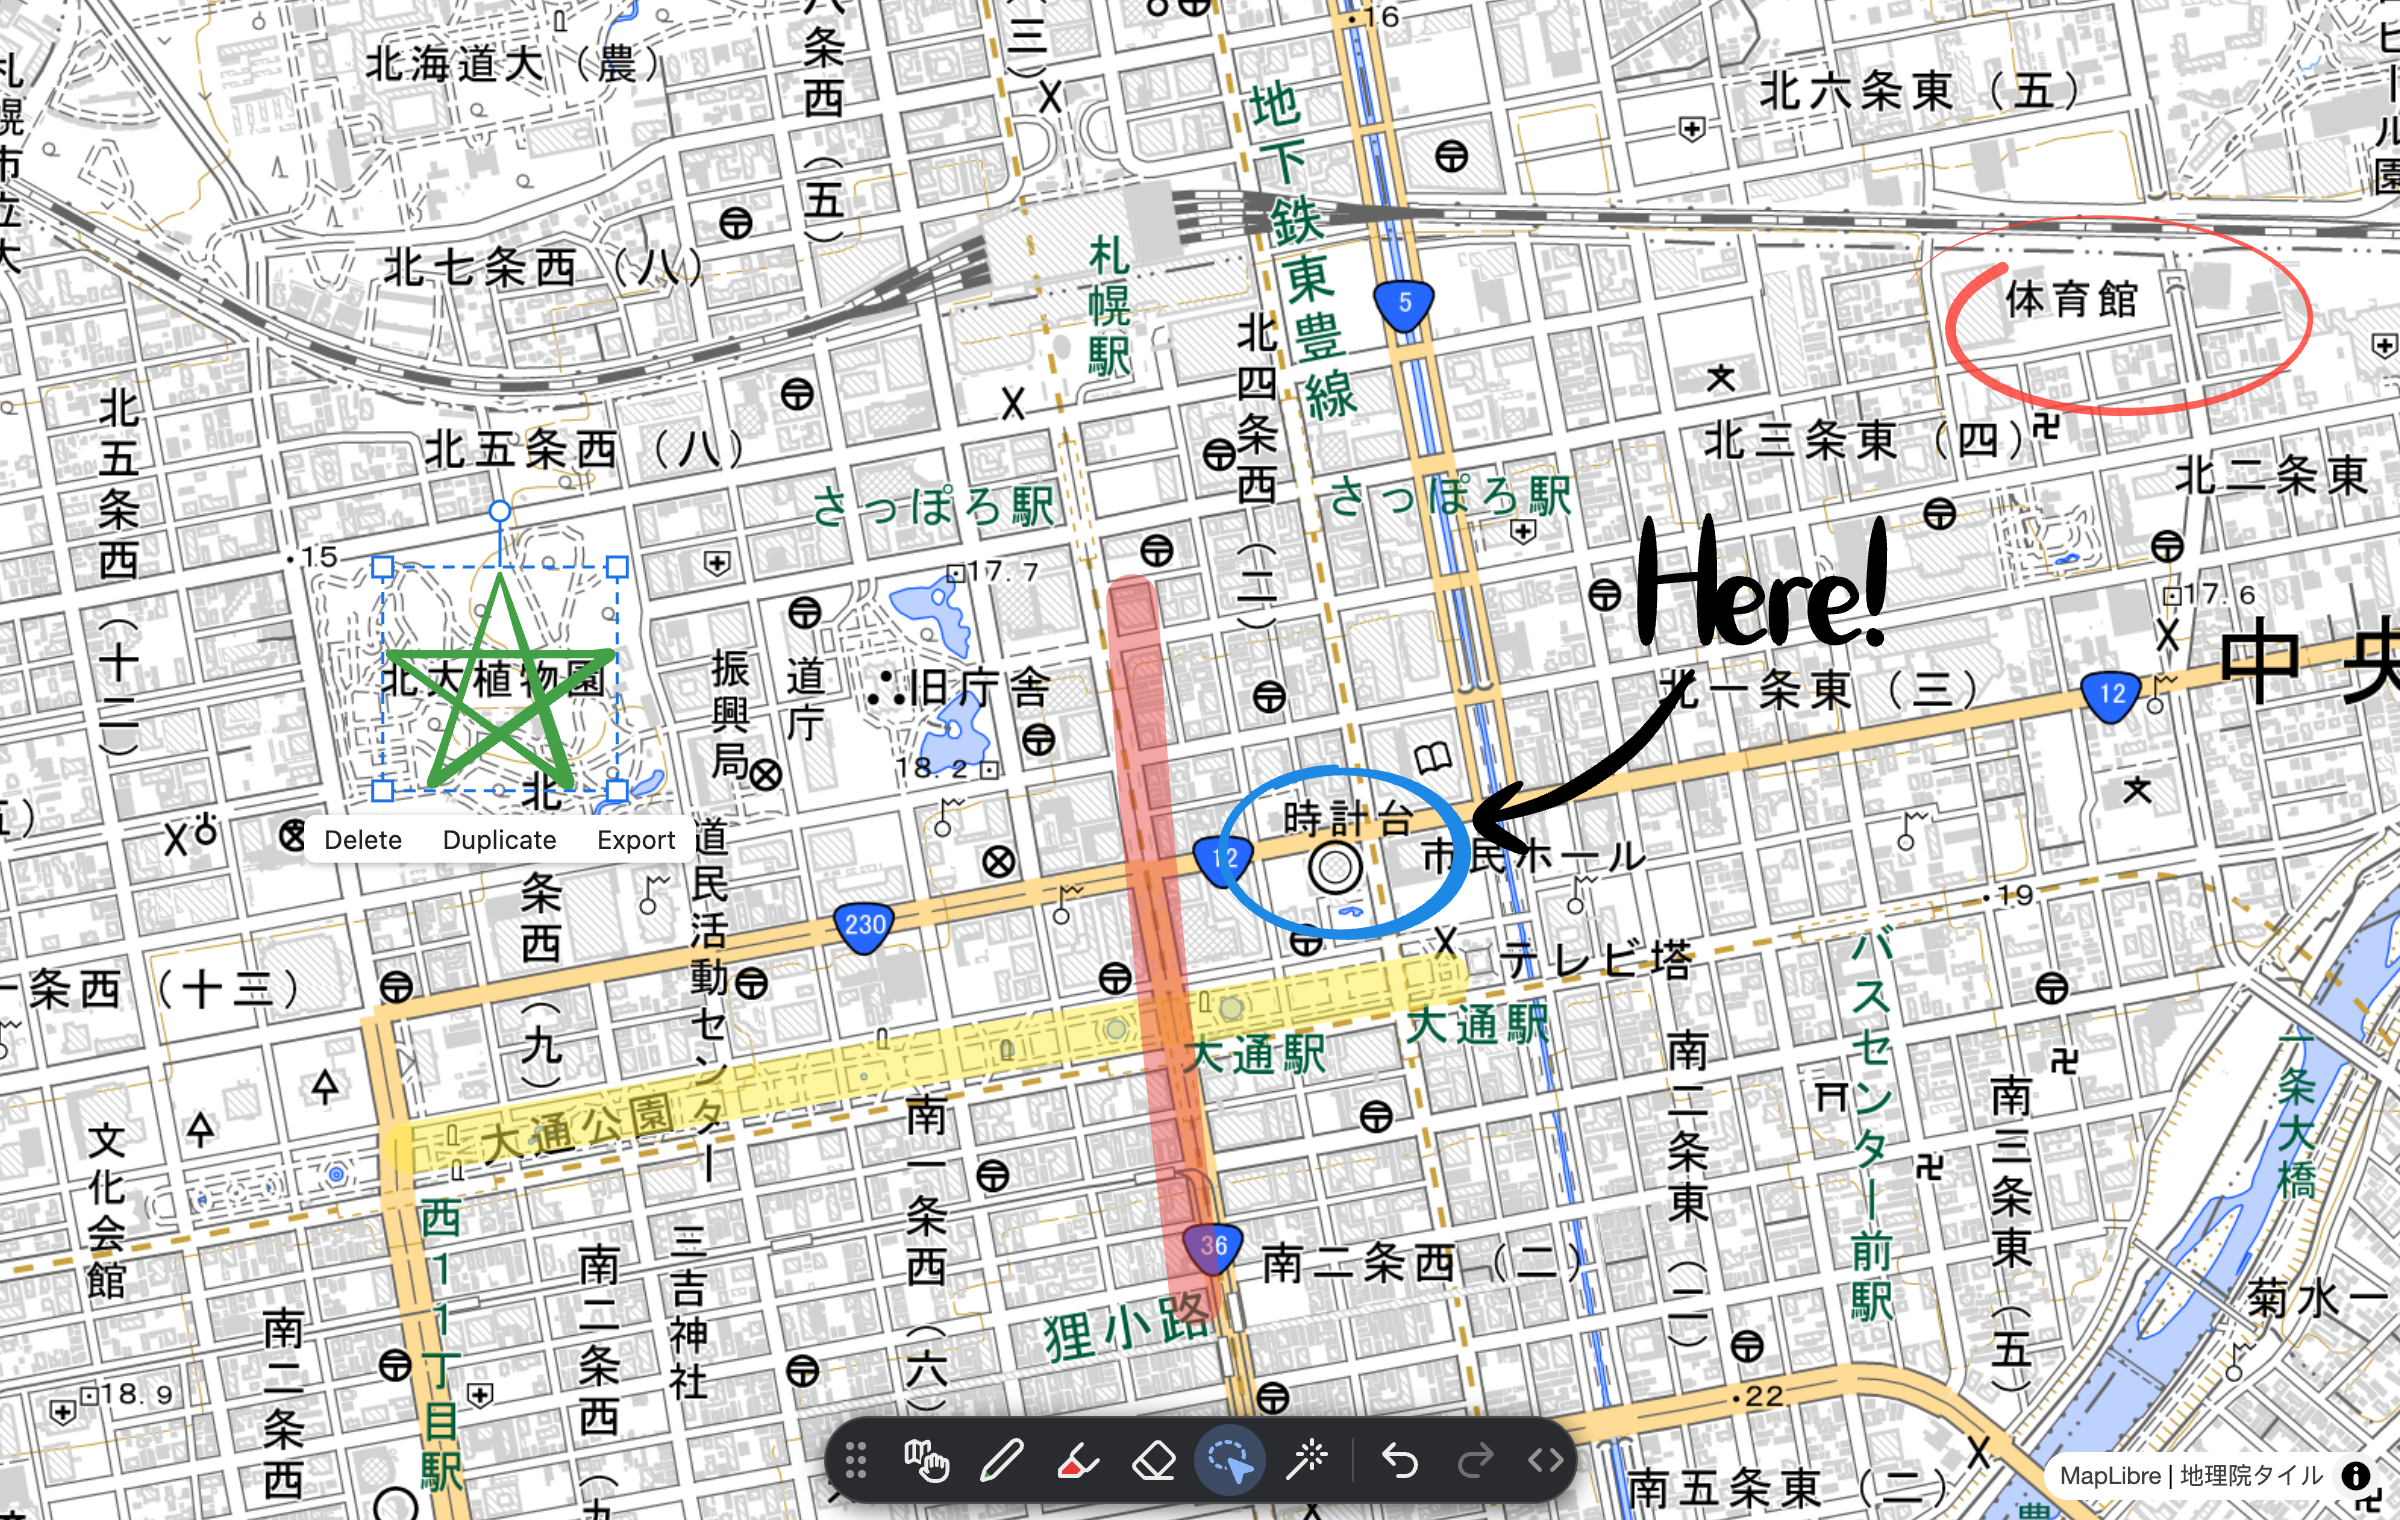
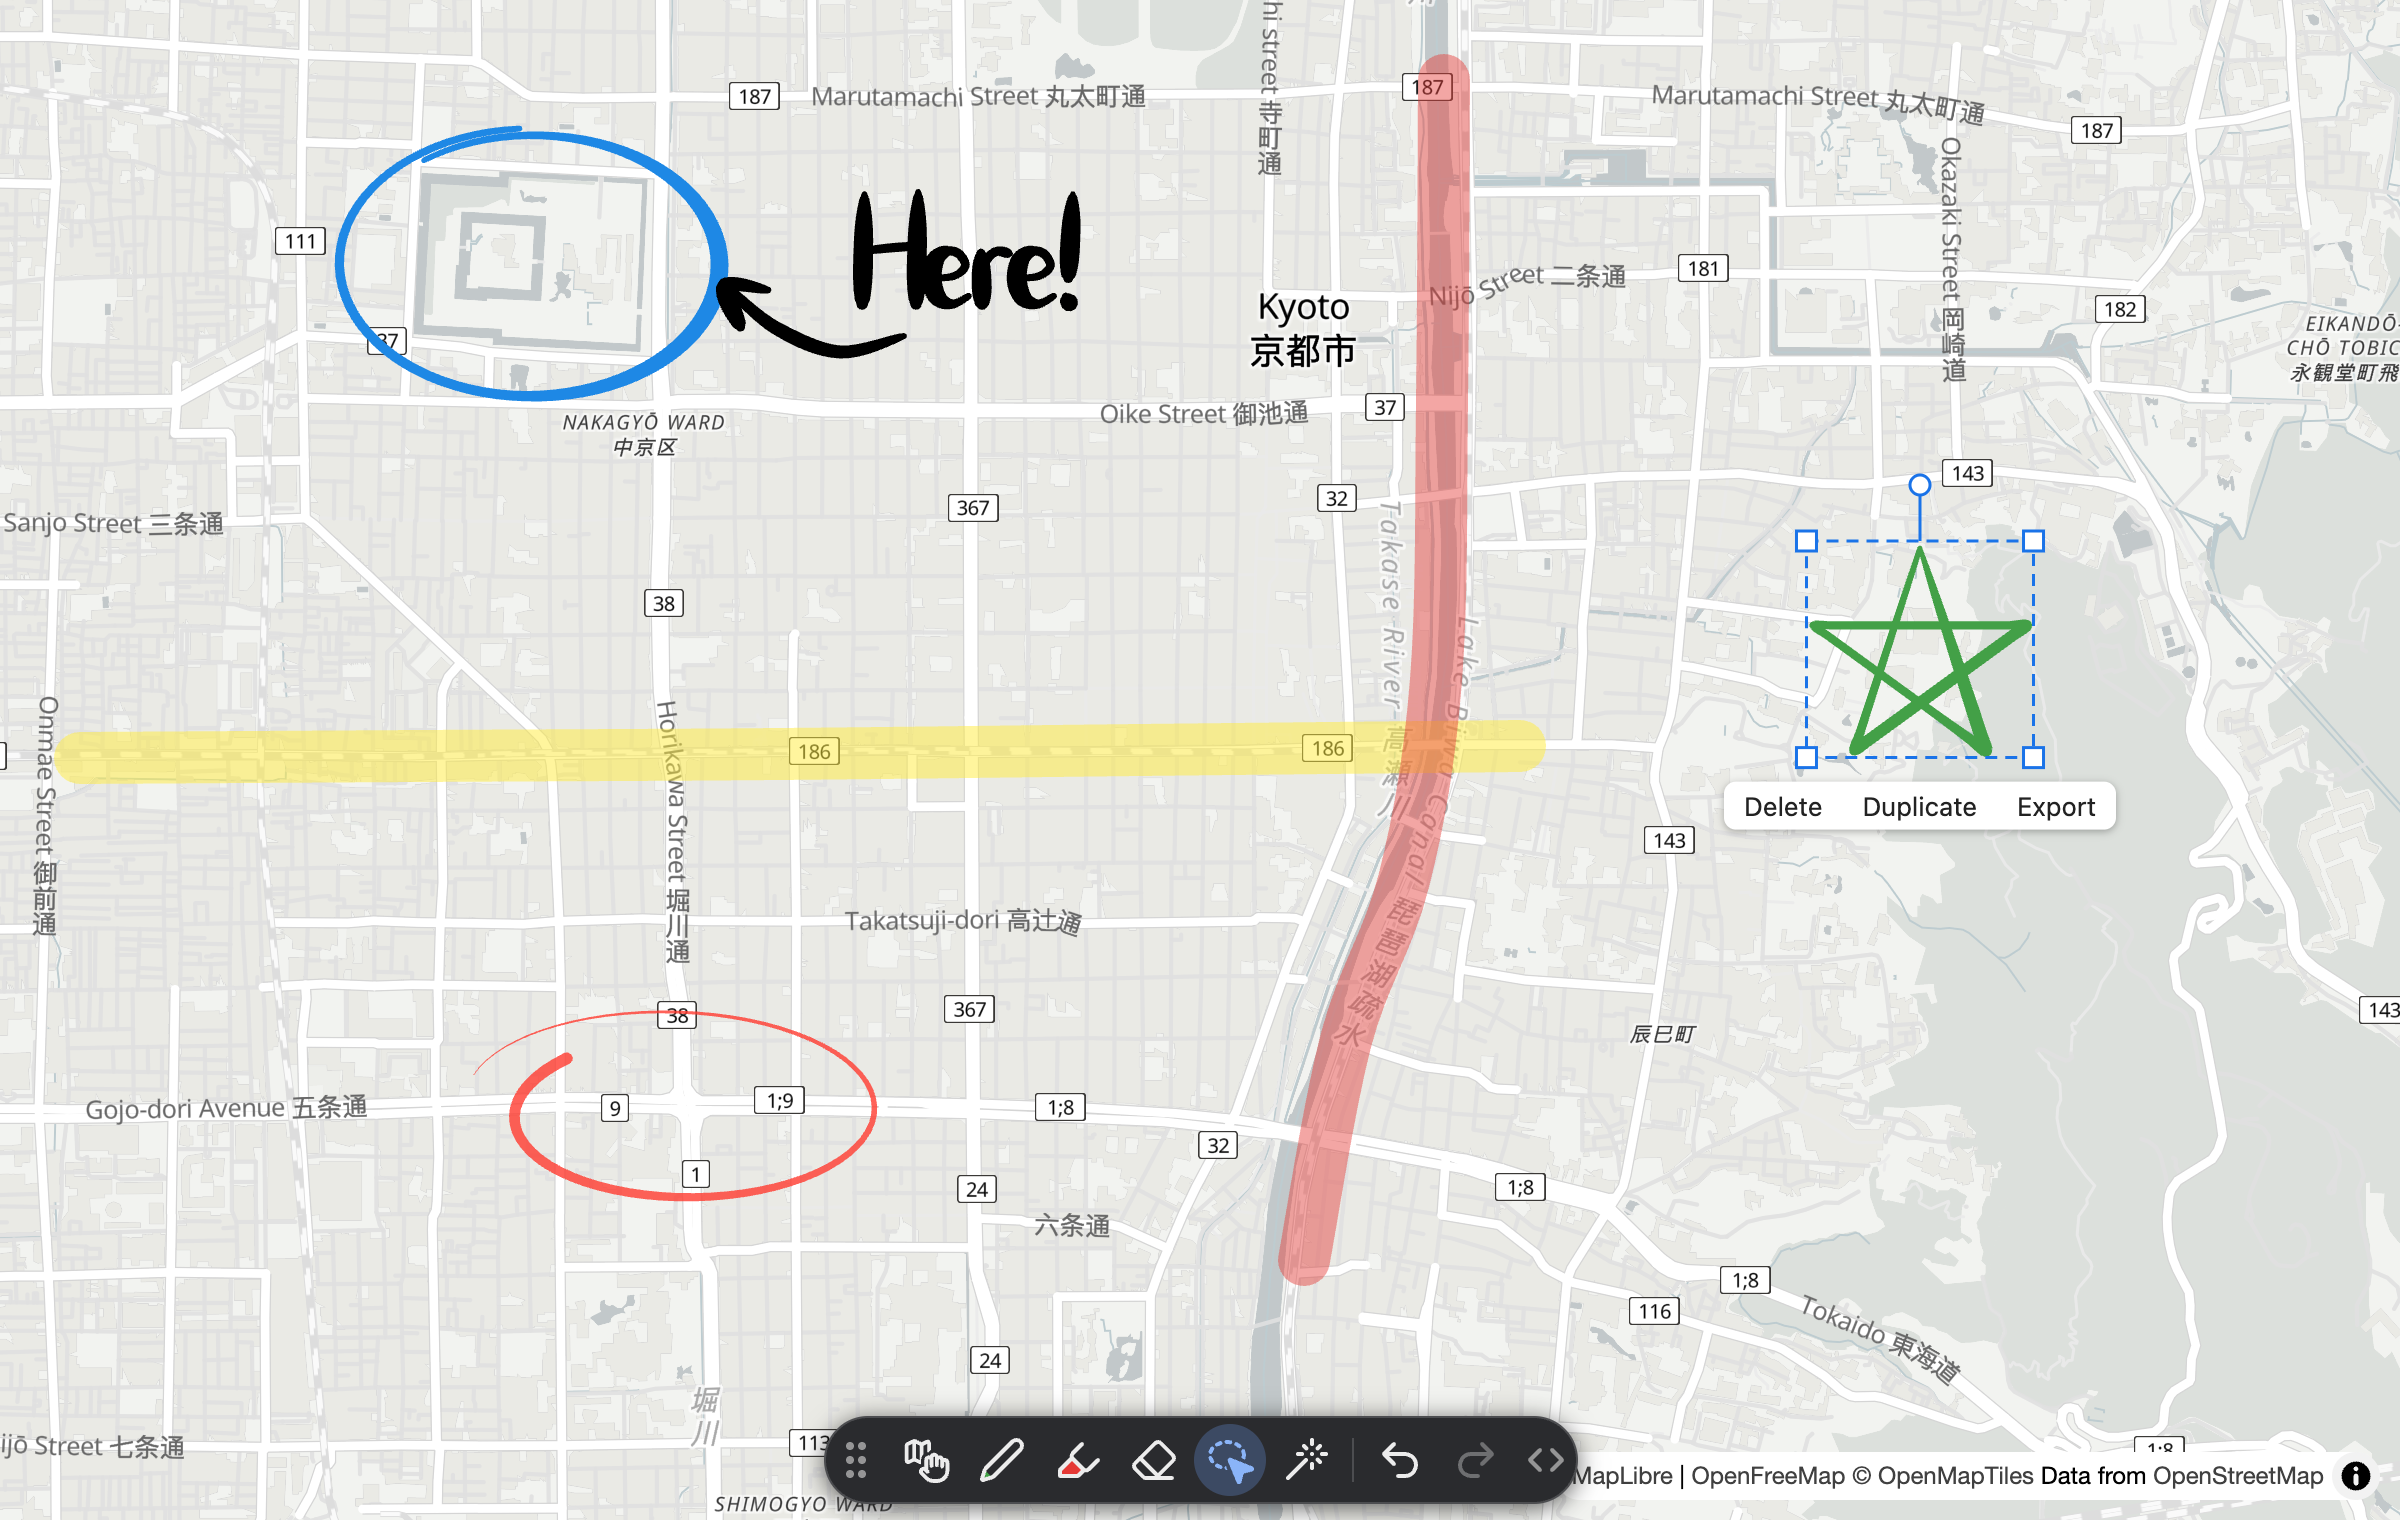
Use OpenFreeMap in dev and retake the README screenshot in Kyoto

diff --git a/dev/main.ts b/dev/main.ts
@@ -4,7 +4,7 @@
 // times; window.__handwriting is what the browser checks (tests/tools/e2e-dev.mjs) look at
 import 'maplibre-gl/dist/maplibre-gl.css'
 import '../src/ui/toolbar.css'
-import { Map as MapLibreMap, NavigationControl, setWorkerUrl } from 'maplibre-gl'
+import { Map as MapLibreMap, NavigationControl, setWorkerUrl, type StyleSpecification } from 'maplibre-gl'
 // MapLibre finds its worker next to its own module, which Vite's pre-bundling moves: give it the worker's URL
 import mapLibreWorkerUrl from 'maplibre-gl/dist/maplibre-gl-worker.mjs?worker&url'
 import { debugPredictionCounts, debugSceneOf, setDebugPrediction } from '../src/debug'
@@ -19,34 +19,39 @@ import {
 import { mountPanel } from './panel'
 
 setWorkerUrl(mapLibreWorkerUrl)
+// A plain background: the style under ?blank, for checks that compare pixels against it, and the one the page falls
+// back to when the map's style cannot be loaded
+const backgroundStyle: StyleSpecification = {
+  version: 8,
+  sources: {},
+  layers: [{ id: 'background', type: 'background', paint: { 'background-color': '#f2f2f2' } }],
+}
+const blank = new URLSearchParams(location.search).has('blank')
 const map = new MapLibreMap({
   container: 'map',
-  // GSI pale raster tiles: no API key needed, attribution required. Tiles exist from zoom 2 to 18
-  style: {
-    version: 8,
-    sources: {
-      gsi: {
-        type: 'raster',
-        tiles: ['https://cyberjapandata.gsi.go.jp/xyz/pale/{z}/{x}/{y}.png'],
-        tileSize: 256,
-        minzoom: 2,
-        maxzoom: 18,
-        attribution: '<a href="https://maps.gsi.go.jp/development/ichiran.html" target="_blank">地理院タイル</a>',
-      },
-    },
-    layers: [
-      { id: 'background', type: 'background', paint: { 'background-color': '#f2f2f2' } },
-      // ?blank leaves the tiles out, for checks that compare pixels against a plain background
-      ...(new URLSearchParams(location.search).has('blank')
-        ? []
-        : [{ id: 'gsi', type: 'raster' as const, source: 'gsi' }]),
-    ],
-  },
+  // OpenFreeMap's Positron (decision 0017): OpenStreetMap vector tiles, no API key needed. Its sources carry their
+  // attribution, which MapLibre shows; the tiles go up to zoom 14
+  style: blank ? backgroundStyle : 'https://tiles.openfreemap.org/styles/positron',
   center: [141.3545, 43.0618],
   zoom: 12,
   minZoom: 2,
   canvasContextAttributes: { antialias: true, desynchronized: true },
 })
+if (!blank) {
+  // The style not loaded, there is no style.load, and the handle adds no layer: an error before style.load puts the
+  // plain background in its place, so the page still draws. Failures after style.load (tiles) only leave the map short
+  const onError = (event: { error?: unknown }): void => {
+    stopListening()
+    console.warn('The map style could not be loaded; drawing on a plain background', event.error)
+    map.setStyle(backgroundStyle, { diff: false })
+  }
+  const stopListening = (): void => {
+    map.off('error', onError)
+    map.off('style.load', stopListening)
+  }
+  map.on('error', onError)
+  map.on('style.load', stopListening)
+}
 map.addControl(new NavigationControl())
 
 const store = new StrokeStore()

diff --git a/README.md b/README.md
@@ -5,9 +5,9 @@ A simple freehand drawing plugin for [MapLibre GL JS](https://github.com/maplibr
 Strokes are kept in map coordinates, tessellated by [lyon](https://github.com/nical/lyon), and drawn by a custom layer.
 The plugin draws and edits the strokes of a store you own; saving and sharing them is up to your code.
 
-![Pen strokes drawn with pressure, two crossing translucent highlighters, a lasso selection with its action bar, and a fading laser pointer trail on a map of Sapporo](docs/images/screenshot.png)
+![Pen strokes drawn with pressure, two crossing translucent highlighters, a lasso selection with its action bar, and a fading laser pointer trail on a map of Kyoto](docs/images/screenshot.png)
 
-Map: [GSI Tiles (地理院タイル)](https://maps.gsi.go.jp/development/ichiran.html), Geospatial Information Authority of Japan.
+Map: © [OpenStreetMap](https://www.openstreetmap.org/copyright) contributors, © [OpenMapTiles](https://www.openmaptiles.org/), served by [OpenFreeMap](https://openfreemap.org/).
 
 - A pen and a highlighter with pen pressure, an eraser, a laser pointer, and a lasso to move, scale, rotate,
   duplicate, delete or export strokes
@@ -63,4 +63,4 @@ with any static file server.
 MIT ([LICENSE](LICENSE)). The WebAssembly module includes Rust crates under their own licenses
 ([THIRD_PARTY_LICENSES](THIRD_PARTY_LICENSES)).
 
-The map in the screenshot ([docs/images/screenshot.png](docs/images/screenshot.png)) is GSI Tiles, used under the Geospatial Information Authority of Japan's [Terms of Use](https://www.gsi.go.jp/kikakuchousei/kikakuchousei40182.html), not MIT.
+The map in the screenshot ([docs/images/screenshot.png](docs/images/screenshot.png)) is © OpenStreetMap contributors, available under the [Open Database License](https://www.openstreetmap.org/copyright), and © OpenMapTiles, not MIT.
